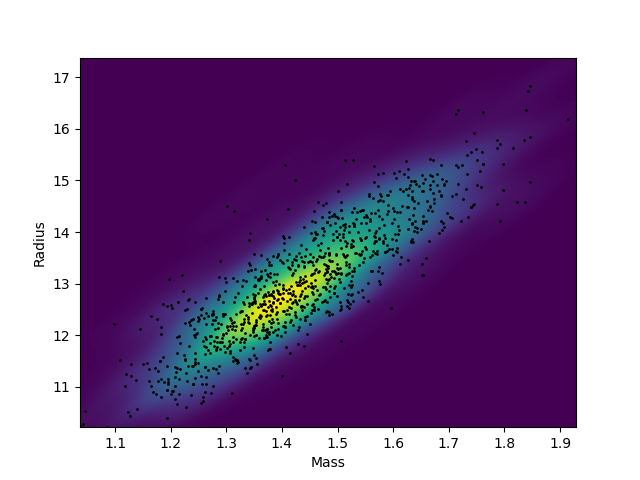
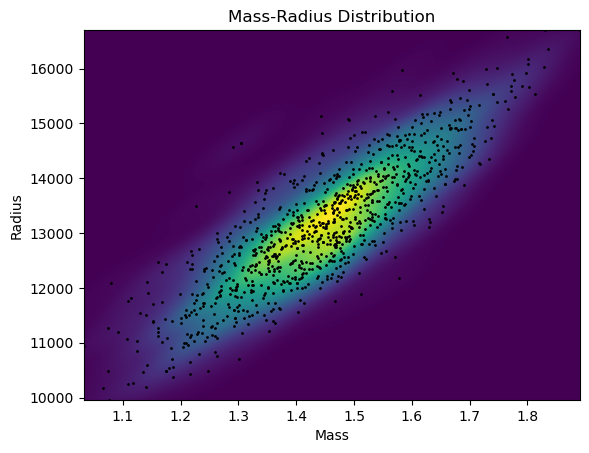
Astronomy Club Plots.

diff --git a/ns_eos_dist.py b/ns_eos_dist.py
@@ -134,8 +134,9 @@ def plot_radii_gaussian_kde(datafile, label, save=True):
     ax.set_xlabel('Mass')
     ax.set_ylabel('Radius')
     pl.scatter(m,r,s=1,color="black")
+    pl.title("Mass-Radius Distribution")
 
-    if save: pl.savefig("NICER_mock_data/radii_heat_plots/{}.png".format(label)) # label="APR4_EPP_m(m_sigma)_r(r_sigma)_kde_mesh_scatter"
+    if save: pl.savefig("NICER_mock_data/radii_heat_plots/{}.png".format(label), bbox_inches='tight') # label="APR4_EPP_m(m_sigma)_r(r_sigma)_kde_mesh_scatter"
 
 def plot_radii_heat(datafile, bins, label, save=True):
     # Function to plot eos' radii as heatmap
@@ -461,3 +462,53 @@ def plot_permutation_eos_curves(label):
     pl.xlim(left=m_min)
     pl.ylabel("Radius")
     pl.savefig("NICER_mock_data/permutation_plots/{}.png".format(label)) # label = "extreme_bounds"
+
+def eos_mr_pd_curves(eos_name, N=1000):
+    # Function that produces m-r curve and p-d curve plots for any equation of state
+
+    eos = lalsim.SimNeutronStarEOSByName(eos_name)
+    fam = lalsim.CreateSimNeutronStarFamily(eos)
+
+    m_min = 1.0
+    max_mass = lalsim.SimNeutronStarMaximumMass(fam)/lal.MSUN_SI
+    max_mass = int(max_mass*1000)/1000
+    masses = np.linspace(m_min, max_mass, N)
+    masses = masses[masses <= max_mass]
+
+    working_masses = []
+    working_radii = []
+    for m in masses:
+        try:
+            rr = lalsim.SimNeutronStarRadius(m*lal.MSUN_SI, fam)
+            working_masses.append(m)
+            working_radii.append(rr)
+        except RuntimeError:
+            break
+
+    working_radii = np.array(working_radii) / 1000
+
+    pl.clf()
+    pl.plot(working_masses, working_radii)
+    pl.xlabel("Mass")
+    pl.ylabel("Radius (km)")
+    pl.title("Mass-Radius Curve")
+    pl.savefig("emcee_files/plots/{}_MR_Curve.png".format(eos_name), bbox_inches='tight')
+
+    min_log_pressure = 32.0
+    max_log_pressure = np.log10(lalsim.SimNeutronStarEOSMaxPressure(eos))
+    logp_grid = np.linspace(min_log_pressure, max_log_pressure, N)
+
+    density_grid = []
+    for lp in logp_grid:
+
+        density_grid.append(lalsim.SimNeutronStarEOSEnergyDensityOfPressure(10**lp, eos)/lal.C_SI**2)
+
+    pl.clf()
+    ax = pl.gca()
+    ax.set_xscale("log")
+    pl.plot(density_grid, logp_grid)
+    pl.xlim([10**17, 10**19])
+    pl.xlabel("Density")
+    pl.ylabel("Pressure")
+    pl.title("Pressure vs Density Curve")
+    pl.savefig("emcee_files/plots/{}_PD_Curve.png".format(eos_name), bbox_inches='tight')

diff --git a/emcee_post.py b/emcee_post.py
@@ -249,13 +249,55 @@ def p_vs_rho_plot(filename, label, N):
     pl.plot(upper_bound, logp_grid, color="blue")
     ax.fill_betweenx(logp_grid, lower_bound, x2=upper_bound, color="blue", alpha=0.5)
     pl.plot(median, logp_grid, "k--")
-    pl.plot(density_grid, logp_grid, "r-", label="APR4_EPP")
+    #pl.plot(density_grid, logp_grid, "r-", label="APR4_EPP")
 
+    pl.xlim([10**17, 10**19])
     pl.xlabel("Density")
     pl.ylabel("Log Pressure")
     pl.title("Pressure vs Density")
     pl.legend()
+    pl.savefig("emcee_files/plots/p_vs_rho_{}.png".format(label), bbox_inches='tight')
+
+def p_vs_rho_plot_multiple(filename, label, N):
+
+    logp_grid, lower_bound, median, upper_bound = np.loadtxt(filename)
+
+    ax = pl.gca()
+    ax.set_xscale("log")
+
+    size = 1
+    pl.plot(lower_bound, logp_grid, color="blue")
+    pl.plot(upper_bound, logp_grid, color="blue")
+    ax.fill_betweenx(logp_grid, lower_bound, x2=upper_bound, color="blue", alpha=0.5)
+    pl.plot(median, logp_grid, "k--")
+
+    min_log_pressure = 32.0
+    max_log_pressure = max(logp_grid)
+
+    eos_list = ["APR4_EPP", "SLY", "H4", "KDE0V", "MS1B", "MS1"]
+    eos_density_grids = []
+    for eos_name in eos_list:
+
+        eos = lalsim.SimNeutronStarEOSByName(eos_name)
+        logp_grid = np.linspace(min_log_pressure, max_log_pressure, N)
+
+        pressure_grid = []
+        density_grid = []
+        for lp in logp_grid:
+            
+            try:
+                density_grid.append(lalsim.SimNeutronStarEOSEnergyDensityOfPressure(10**lp, eos)/lal.C_SI**2)
+                pressure_grid.append(lp)
+            except RuntimeError:
+                continue
+        
+        pl.plot(density_grid, pressure_grid, label=eos_name)
+
     pl.xlim([10**17, 10**19])
+    pl.xlabel("Density")
+    pl.ylabel("Log Pressure")
+    pl.title("Pressure vs Density")
+    pl.legend()
     pl.savefig("emcee_files/plots/p_vs_rho_{}.png".format(label), bbox_inches='tight')
 
 def snr_radius_error(m_sigmas, r_sigmas, N, sigmas):
